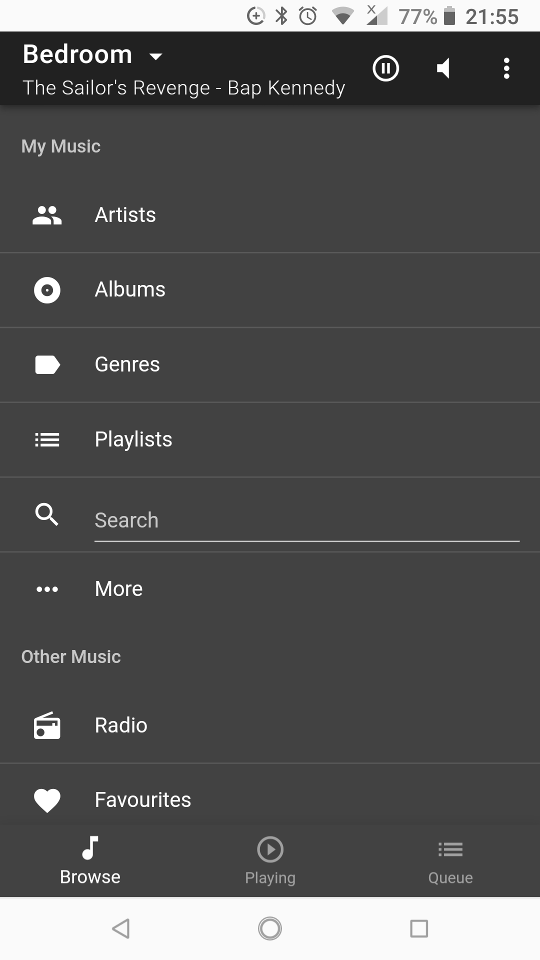
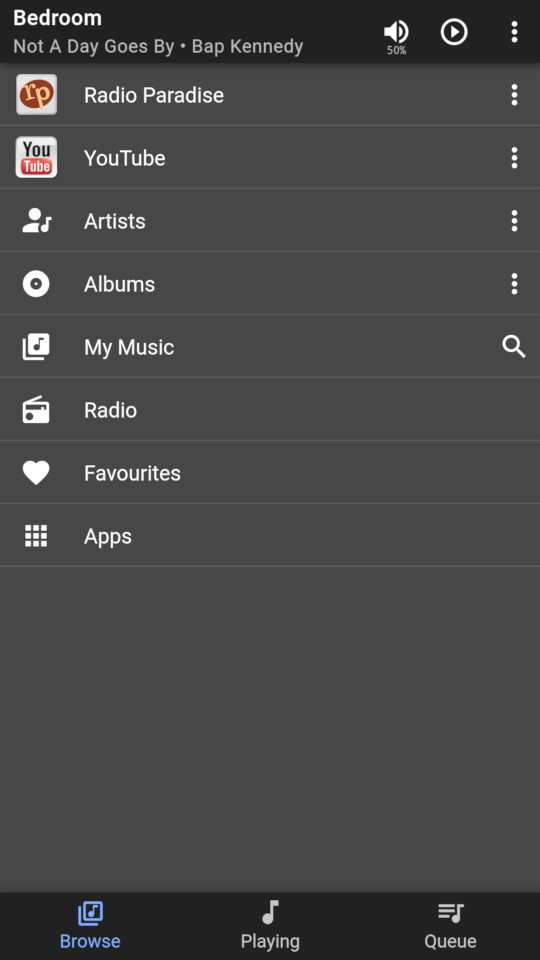
Update screenshots, and add link to user guide.

diff --git a/README.md b/README.md
@@ -1,11 +1,11 @@
 # Material skin for SlimServer (Logitech Media Server)
 
-NOTE: The following screenshot is from the 0.0.1 release, and there have been
-a few changes since.
-
 ![Now Playing](screenshots/now-playing.png)
 
-See https://github.com/CDrummond/lms-material/wiki/Screenshots for more screenshots.
+The [Screenshots wiki page](https://github.com/CDrummond/lms-material/wiki/Screenshots) has more screenshots.
+
+For more information, please refer to the [User Guide](https://cdn.statically.io/gh/d6jg/material-documentation/master/html/Material%20Skin.html).
+This guide is on a separate github page, and is authored by Jim Gooch.
 
 ## Features
 
